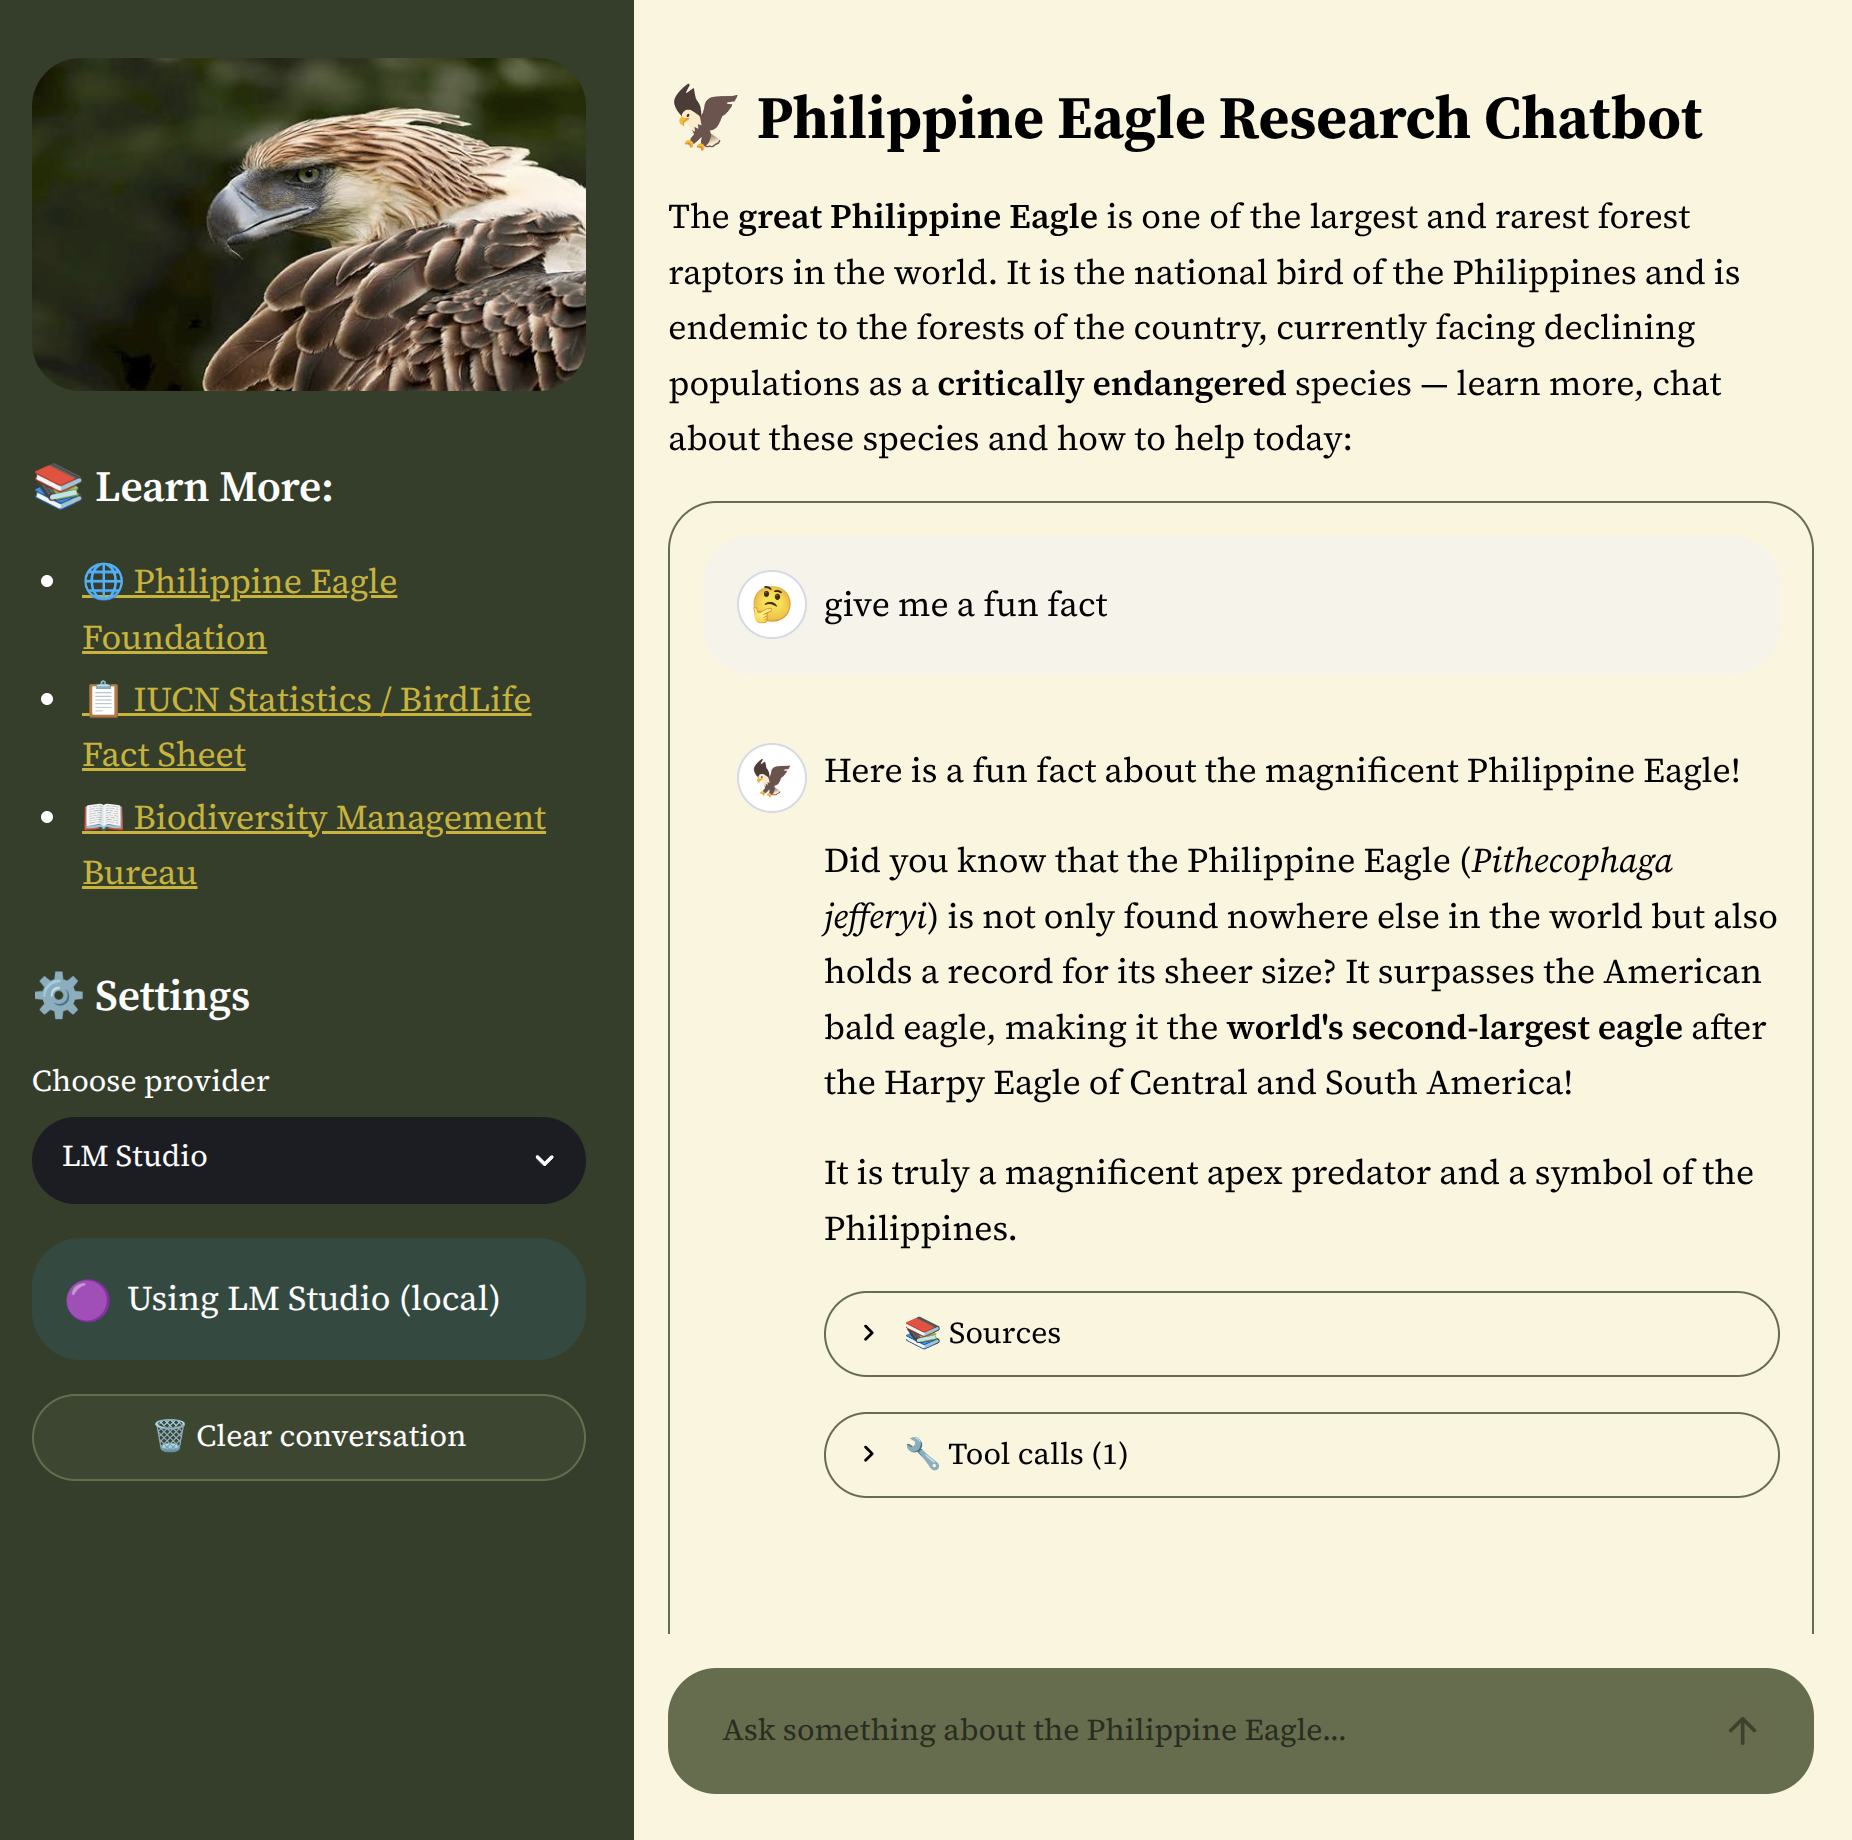
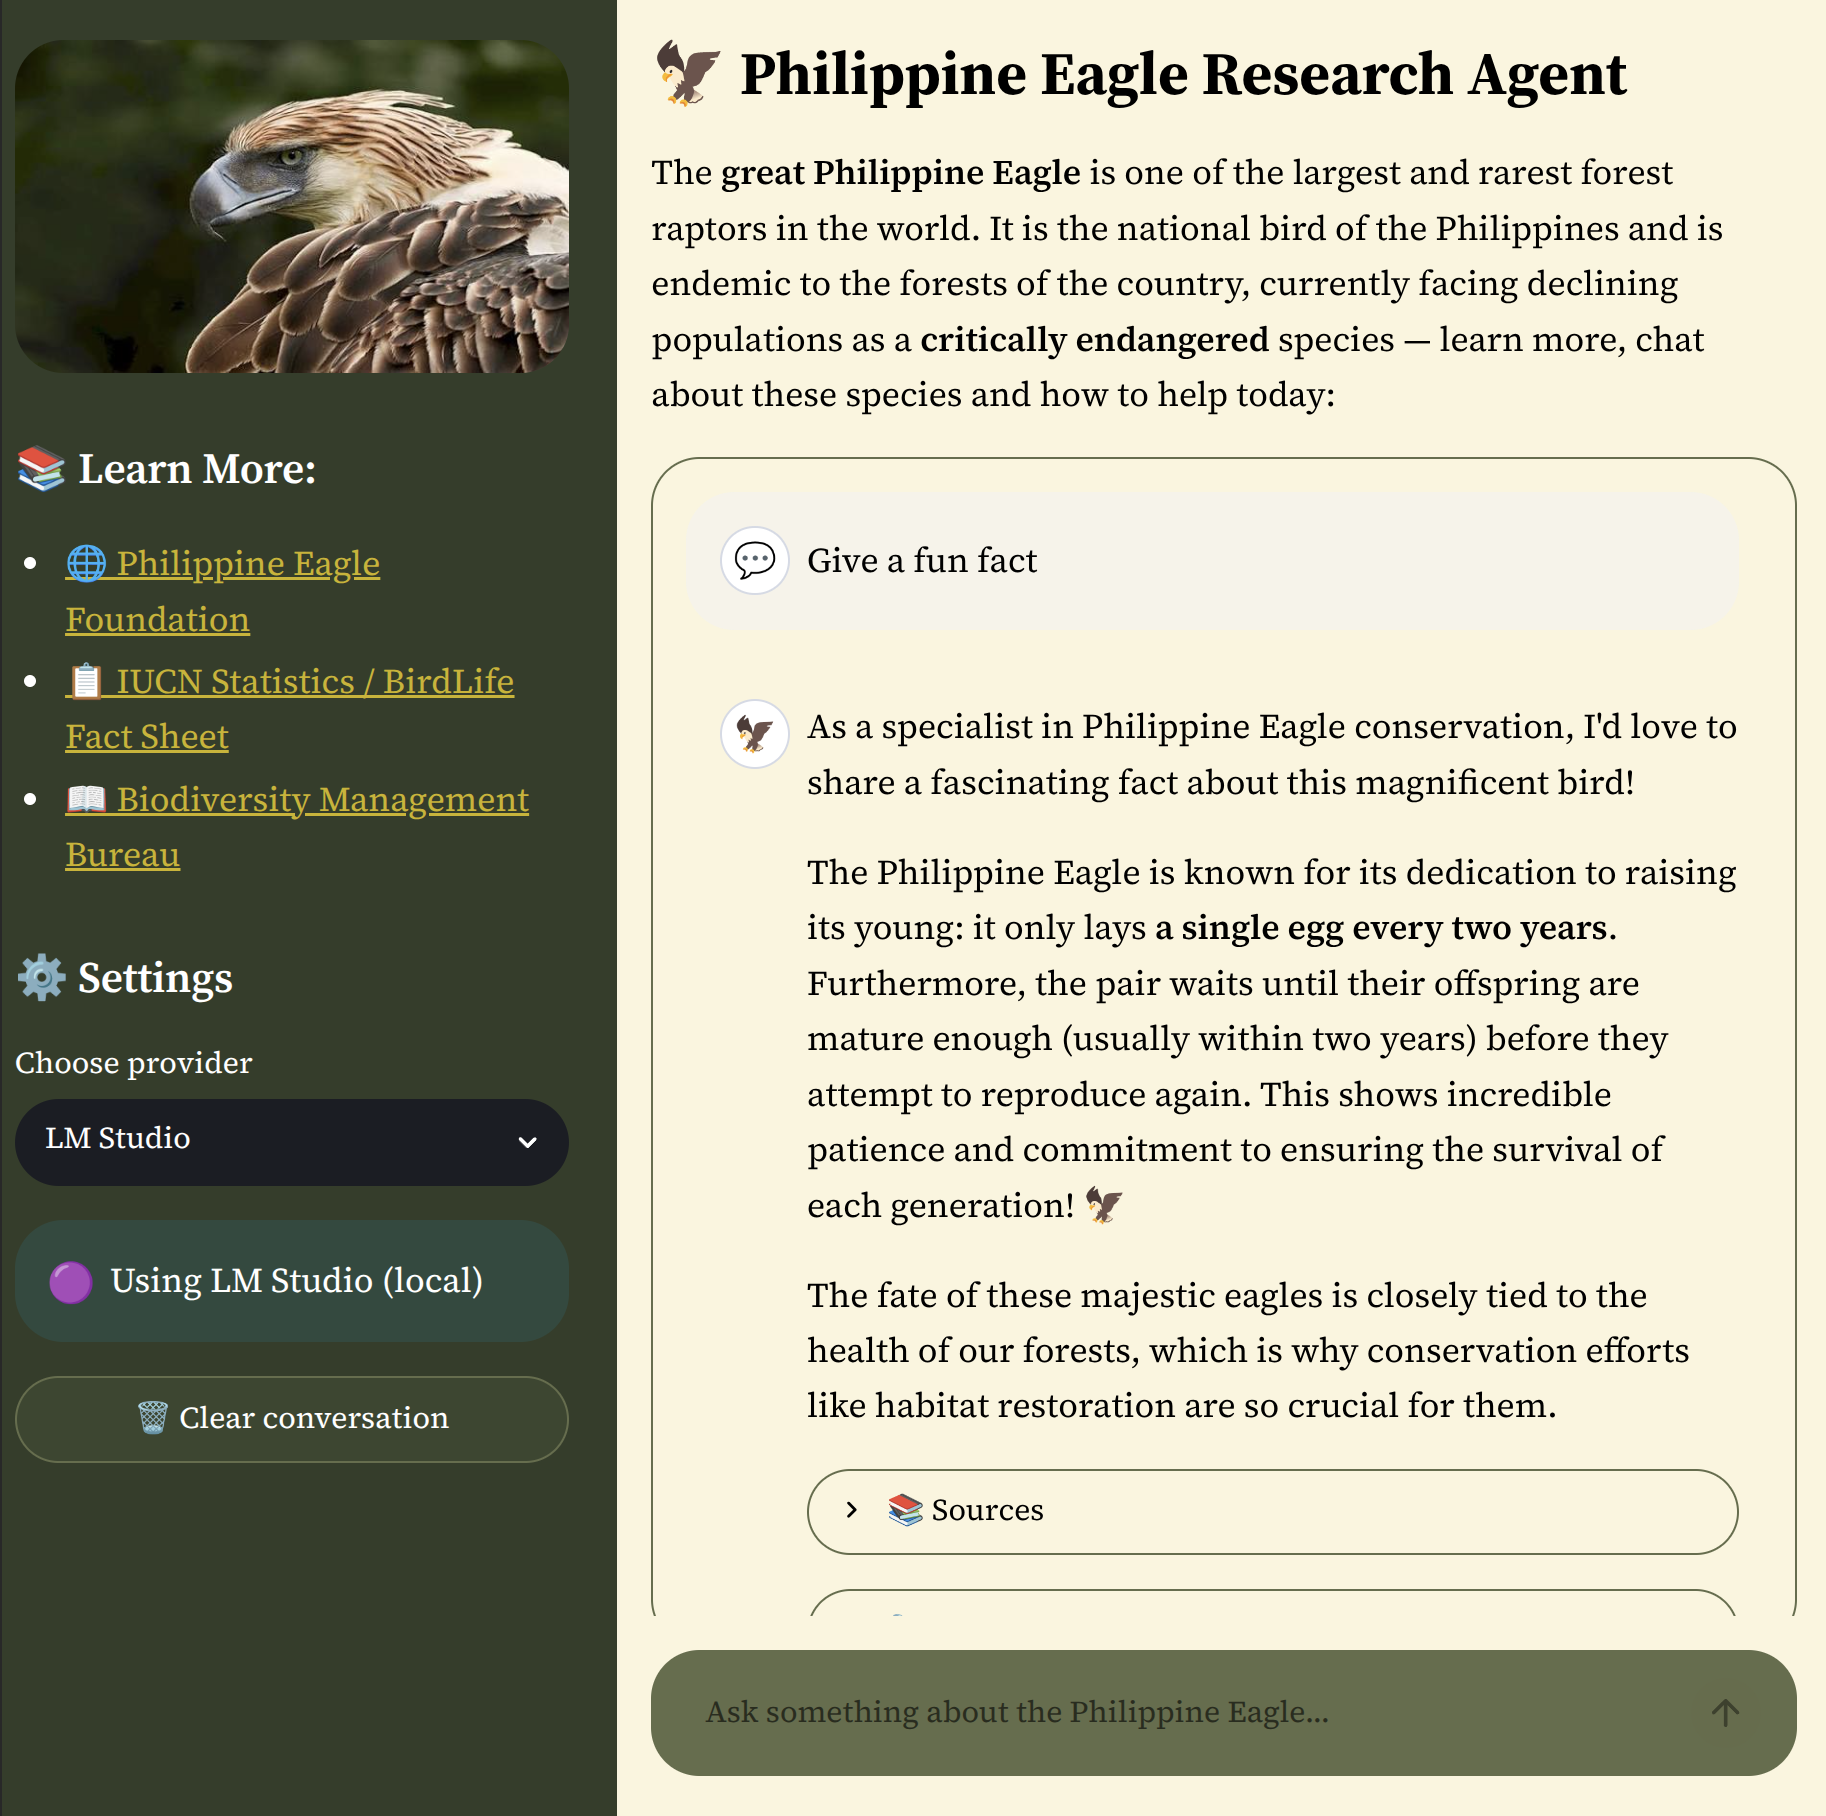
Organize readme and state sources, optimize UI

diff --git a/src/app.py b/src/app.py
@@ -29,7 +29,7 @@ logging.basicConfig(
 logger = logging.getLogger(__name__)
 
 st.set_page_config(
-    page_title="Philippine Eagle Research Chatbot",
+    page_title="Philippine Eagle Conservation Research Agent",
     page_icon="🦅",
     layout="centered",
 )
@@ -140,10 +140,7 @@ PROMPT_PATH = os.path.join(os.path.dirname(__file__), "system_prompt.txt")
 def get_agent(model: str, base_url: str, api_key: str):
     """Create and cache the LangChain agent."""
     llm = ChatOpenAI(
-        model=model,
-        base_url=base_url,
-        api_key=api_key,
-        temperature=0,
+        model=model, base_url=base_url, api_key=api_key, temperature=0, max_tokens=2048
     )
 
     tools = make_rag_tools(llm, retriever)
@@ -170,7 +167,7 @@ chat_box = st.container(height=550, border=True)
 with chat_box:
     for msg in st.session_state.messages:
         with st.chat_message(
-            msg["role"], avatar="🦅" if msg["role"] == "assistant" else "🤔"
+            msg["role"], avatar="🦅" if msg["role"] == "assistant" else "💬"
         ):
             st.markdown(msg["content"])
             if msg.get("citations"):
@@ -207,7 +204,7 @@ if user_input:
             st.warning(rate_msg)
         else:
             with chat_box:
-                with st.chat_message("user", avatar="🤔"):
+                with st.chat_message("user", avatar="💬"):
                     st.markdown(user_input)
 
                 with st.chat_message("assistant", avatar="🦅"):

diff --git a/src/ui.py b/src/ui.py
@@ -2,7 +2,7 @@ import streamlit as st
 
 
 def render_header():
-    st.title("🦅 Philippine Eagle Research Chatbot")
+    st.title("🦅 Philippine Eagle Research Agent")
     st.markdown(
         """
         The **great Philippine Eagle** is one of the largest and rarest forest raptors in the world. It is the national bird of the Philippines and is endemic to the forests of the country, currently facing declining populations as a **critically endangered** species — learn more, chat about these species and how to help today:

diff --git a/src/tools.py b/src/tools.py
@@ -357,7 +357,6 @@ Only use information grounded in the context provided."""
     > Source: IUCN API
     """
 
-        # ✅ store result
         _IUCN_CACHE[key] = result
 
         return result

diff --git a/README.md b/README.md
@@ -1,21 +1,21 @@
 # 🦅 Philippine Eagle Conservation Research - an RAG-grounded LLM Agentic Chatbot
-**Tech Stack:** Python, LangChain, OpenRouter, Streamlit, ChromaDB, HuggingFace
+**Tech Stack:** Python, LangChain, OpenRouter, Streamlit, ChromaDB, HuggingFace, DeepEval
 
 This repo provides an **agentic Retrieval-Augmented Generation (RAG) LLM research assistant** to help conservationists plan, and for any user to learn more, about the **great Philippine Eagle** - the critically endangered national bird of the Philippines. 
 
-Powered by a **curated vector database** of peer-reviewed research, conservation fact sheets, and a handful of recent news articles. Equipped with **tools** - from citation sourcing, live IUCN status calling, to conservation planning across immediate to long-term timelines. Also includes a small **RAG evaluation pipeline** using the faithfulness metric to assess how well generated responses remain supported by retrieved evidence. Meant as an **accessible AI assistant** for researchers, conservationists, students, or the general public to learn more and take action to help with Philippine Eagle conservation. 
-
+Powered by a **curated vector database** of peer-reviewed research, conservation fact sheets, and a handful of recent news articles. Equipped with **tools** - from citation sourcing, live IUCN status calling, to conservation planning across immediate to long-term timelines. Also includes a small **RAG evaluation pipeline** using the faithfulness metric to assess how well generated responses remain supported by retrieved evidence. Meant as an **accessible AI assistant** for researchers, conservationists, students, or the general public to learn more and take action to help with Philippine Eagle conservation.
 
 <div align="center">
-  <img src="visuals/demo.png" alt="Philippine Eagle Research Chatbot Demo" width="80%"/>
+  <img src="visuals/viability-tool-demo-1.png" alt="Conservation Action  Tool Demo 1" width="49%"/>
+  <img src="visuals/viability-tool-demo-2.png" alt="Conservation Action  Tool Demo 2" width="49%"/>
 </div>
 
-### Features:
-- 🧠 Agentic LLM with tools:
+## Features:
+- 🧠 Agentic LLM with 4 curated tools:
   - Citation Sourcing
   - Conservation Planning
   - Population Viability Estimator
-  - Latest IUCN Species Status
+  - [Live API] Latest IUCN Species Status
 - 🔍 **Multi-Query Retrieval-Augmented Generation (RAG)** for improved document recall
 - 🤖 **Multi-Model support** with 5 total options:
   - (1 Local option) Supports local LLMs on LM Studio using Gemma 4
@@ -26,17 +26,24 @@ Powered by a **curated vector database** of peer-reviewed research, conservation
 - 📊 RAG evaluation pipeline using DeepEval's Faithfulness metric to measure grounding quality
 - 💬 Interactive Streamlit web interface with comprehensive visualizations
 
-#### 🛠️ Tools
+<div align="center">
+  <img src="visuals/demo.png" alt="Philippine Eagle Research Agent Demo" width="80%"/>
+</div>
+
+### 🛠️ Tools
+
+Specific conservation science tools were integrated that allow the AI agent to autonomously determine and execute the appropriate functions:
 
 | Tool | Description | Params | Example Prompt |
 |---|---|---|---|
 | `search_eagle_knowledge` | Searches the Philippine Eagle knowledge base using RAG and returns relevant information with cited sources | `query: str` | "What is the conservation status of the Philippine Eagle?" |
+| `conservation_action_planner` | Generates a prioritized conservation action plan for a given threat and location, grounded in knowledge base context. Outputs immediate, short-term, medium-term, and long-term actions | `threat: str, location: str` | "Plan conservation actions for illegal logging in Mindanao" |
 | `estimate_population_viability` | Calculates a viability score from population parameters and generates an expert interpretation grounded in the knowledge base. `threat_level` must be one of: `low`, `medium`, `high`, `critical` | `breeding_pairs: int, habitat_hectares: float, threat_level: str` | "There are only 8 breeding pairs left in 1200 hectares with a high threat level — how viable is this population?" |
 | `get_iucn_status` | Fetches the **latest IUCN Red List status** and brief status summary for the species **using the IUCN v4 taxon API endpoint**. Returns taxonomic information, Red List category, assessment history, and population trend. | None (fixed species: Pithecophaga jefferyi) | "Get the IUCN status of the Philippine Eagle" / simply "status" |
 
 <div align="center">
-  <img src="visuals/tool_demo_part1.png" alt="Conservation Action Planner Tool Demo 1" width="49%"/>
-  <img src="visuals/tool_demo_part2.png" alt="Conservation Action Planner Tool Demo 2" width="49%"/>
+  <img src="visuals/planner-tool-demo-1.png" alt="Conservation Action Planner Tool Demo Part 1" width="49%"/>
+  <img src="visuals/planner-tool-demo-2.png" alt="Conservation Action Planner Tool Demo Part 2" width="49%"/>
 </div>
 
 #### Other features:
@@ -46,22 +53,22 @@ Powered by a **curated vector database** of peer-reviewed research, conservation
 - Error handling and error messages
 - Logs and monitoring
 
-#### 🛣️ Feature Roadmap:
-- [ ] Add more to the RAG database
+### 🛣️ Feature Roadmap:
+- [ ] Load more information to the RAG database
 - [ ] Expand usage of IUCN Red List's API to give a more comprehensive species status snapshot > simple species status and date
-- [ ] **More conservationist scientific tools** - Implement more tools that are use-case specific and practical for the day-to-day of conservationists; more science-based like the Population Viability Analysis tool
-- [ ] Evaluate all metrics of RAG (Context relevancy, etc.)  not just faithfulness
+- [ ] **Integrate more conservationist scientific tools** - Implement more tools that are use-case specific and practical for the day-to-day of conservationists; more science-based like the Population Viability Analysis tool
+- [ ] Evaluate all metrics of RAG (Context relevancy, etc., not just faithfulness)
 - [ ] **`ingest.py`** - for learning, logging, and viewing purposes the RAG database was built in a notebook `RAG-base.ipynb`. Simple improvement to transfer it to a more typical `ingest.py`
-- [ ] Test cases and unit testing for all tools
-- [ ] Fix UI and improve aesthetics
-- [ ] Possible to launch on the cloud for release
+- [ ] Built test cases and conduct unit testing for all tools
+- [ ] Further optimize UI and improve aesthetics
+- [ ] Possibly launch to the cloud for release / live demo & usage
 - [ ] Cleaner RAG - parsed PDFs, webpages vary in exported quality
-- [ ] Contextual Compression Retriever may yield more relevant chunk retrieval from the RAG 
+- [ ] **Contextual Compression Retriever** may yield more relevant chunk retrieval from the RAG 
 
 ### Limitations
 * ⚠️ Data Limitations
     * Most complete public data, last newsletters and annual reports made publicly available by the Philippine Eagle Foundation, were last published 2023 (Last Annual Report - 2021)
-* Uses mini / lower-capacity models - model selection is limited for cost-effective API calling measures. 
+* Limited to mini / lower-capacity models - model selection is currently limited for cost-effective API calling measures. 
 
 
 ## 📦 Libraries & Tools Used
@@ -96,6 +103,25 @@ Powered by a **curated vector database** of peer-reviewed research, conservation
     ```
     uv run streamlit run src/app.py
     ```
+
+#### 📚️ Sources:
+- Main Resources: 
+  - [Philippine Eagle Foundation](https://www.philippineeaglefoundation.org/philippine-eagle)
+  - [BirdLife Species Status (IUCN Red List Assessment Data)](https://datazone.birdlife.org/species/factsheet/philippine-eagle-pithecophaga-jefferyi)
+- Publications:
+  1. [Priority conservation areas and a global population estimate for the critically endangered Philippine Eagle](https://www.philippineeaglefoundation.org/_files/ugd/d08c94_74d2622c339e4f1499c76d07852a85a7.pdf)
+  2. [Philippine Eagle “Sinabadan” Rescued at Mt Tangkulan](https://www.philippineeaglefoundation.org/_files/ugd/d08c94_9e2dfe5081234dfc81ad12c5ab1421f2.pdf)
+  3. [Preventing Philippine Eagle hunting: what are we missing?](https://www.threatenedtaxa.org/index.php/JoTT/article/view/2301/3831)
+  4. [First Record of a Successful Nesting of South Philippine Hawk-Eagles](https://www.researchgate.net/profile/Tristan-Luap-Senarillos/publication/399615160_First_Record_of_a_Successful_Nesting_of_South_Philippine_Hawk-Eagles_Nisaetus_pinskeri_on_Mindanao_Philippines/links/69612b090f6f9e478e436913/First-Record-of-a-Successful-Nesting-of-South-Philippine-Hawk-Eagles-Nisaetus-pinskeri-on-Mindanao-Philippines.pdf)
+  5. [Population Viability Analysis to Inform
+  Conservation Planning for the Philippine Eagle](https://www.cpsg.org/sites/default/files/2025-12/Valle%20et%20al.%202025%20_%20Population%20Viability%20Analysis%20to%20Inform%20Conservation%20Planning%20for%20the%20Philippine%20Eagle%20%28Pithecophaga%20jefferyi%29.pdf)
+  6. [Genomic analysis reveals recent population
+  decline of the critically endangered
+  Philippine eagle](https://link.springer.com/article/10.1186/s12864-026-12859-9)
+- News articles:
+  1. [The Oven of Life](https://www.gmanetwork.com/news/specials/andypenafuerte/284/the-oven-of-life/)
+  2. [Saving the endangered Philippine eagle from extinction](https://mb.com.ph/2026/06/10/saving-the-endangered-philippine-eagle-from-extinction)
+  3. [Harmonizing Policy and Action Through the Philippine Eagle Population Viability Analysis and Action Plan Updating](https://faps.bmb.gov.ph/faps/2025/09/29/harmonizing-policy-and-action-through-the-philippine-eagle-population-viability-analysis-and-action-plan-updating/)
 
 
 ## ✉️ Author and Contact Information